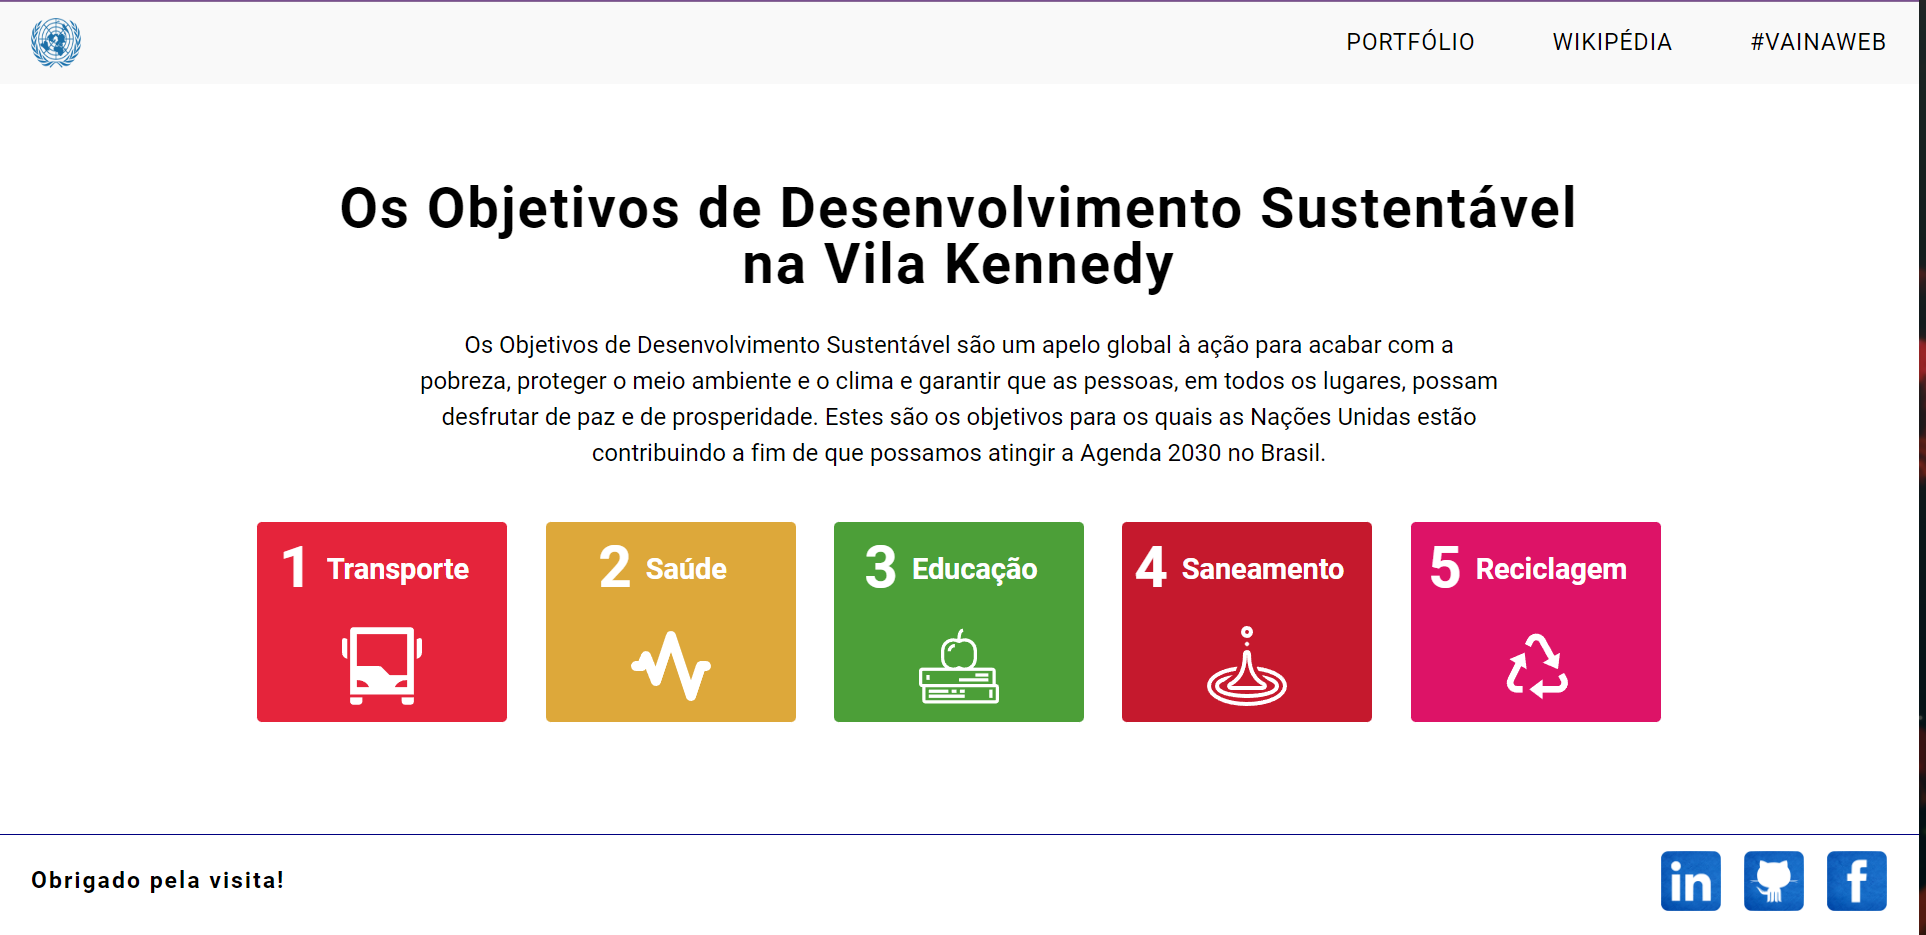
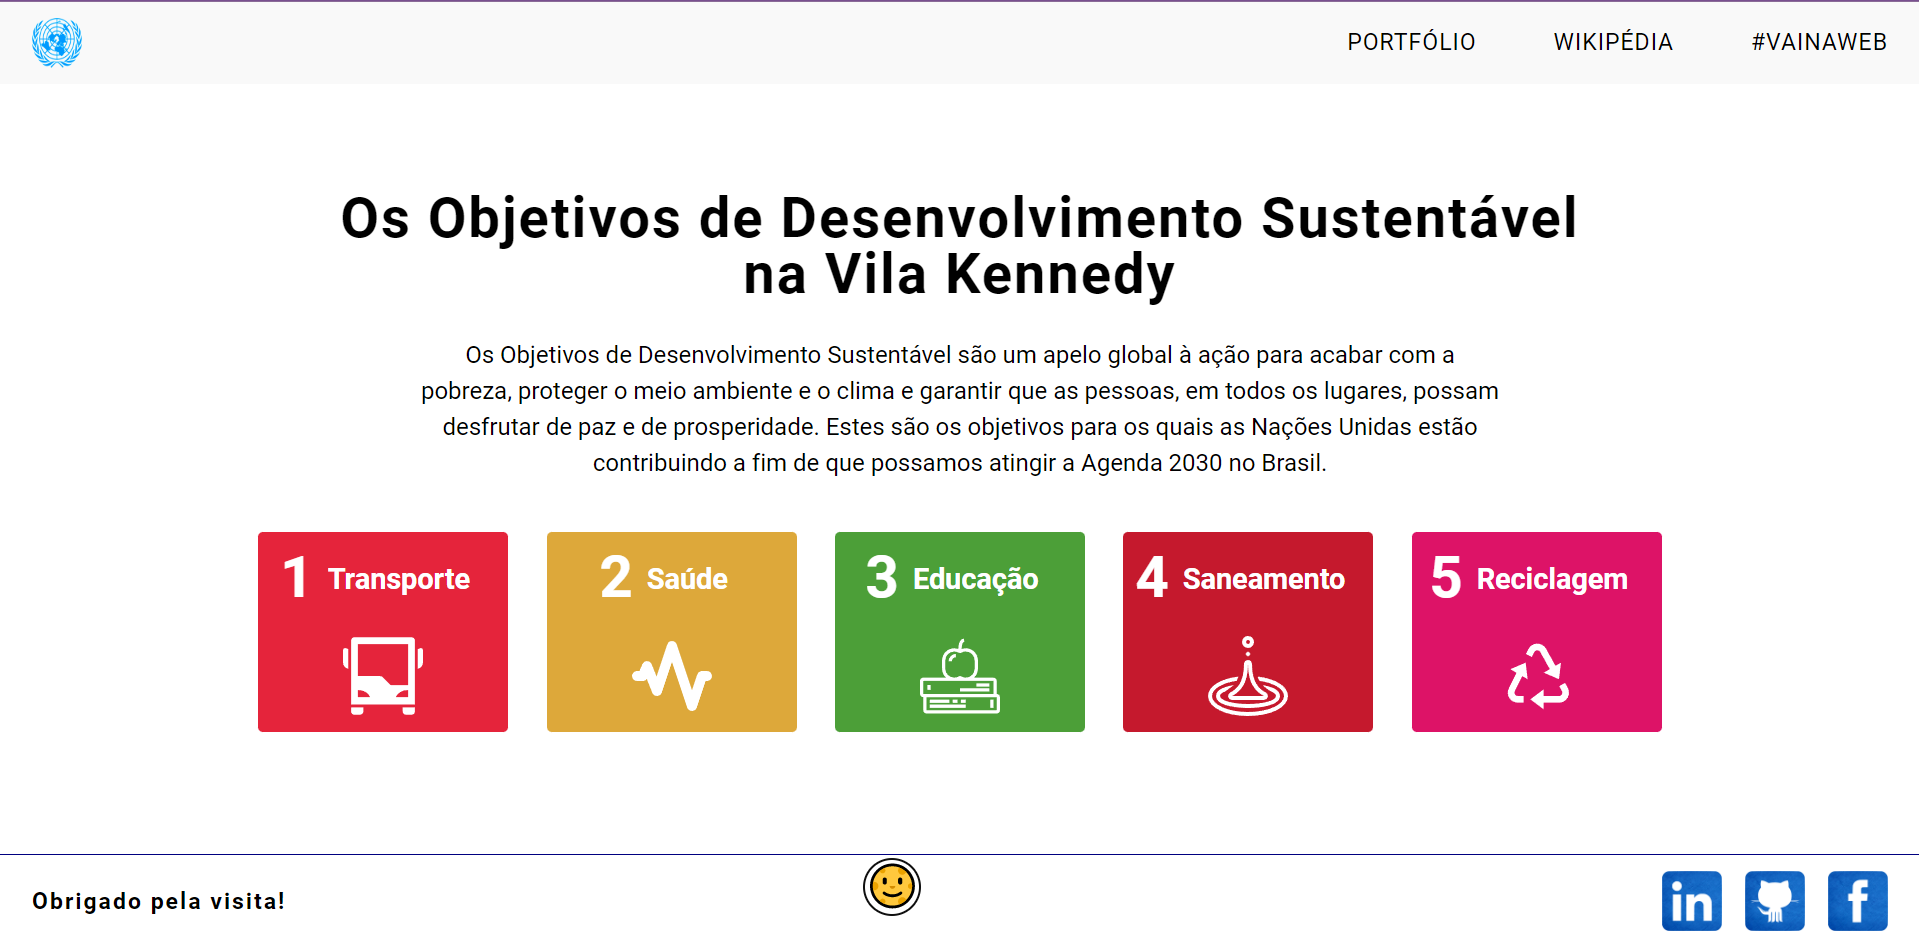
Dark & Light Themes

diff --git a/src/Theme/themeStyle.js b/src/Theme/themeStyle.js
@@ -1,0 +1,65 @@
+import styled from "styled-components"
+
+export const ToggleBtn = styled.button`
+    width: 3.5rem;
+    aspect-ratio: 1;
+    border-radius: 50px;
+    font-size: 2.5rem;
+    border: none;
+    background-color: transparent;
+    overflow: hidden;
+    position: fixed; 
+    z-index: 9999;
+    bottom: 1.5rem;
+    left: 45%;
+
+    @media screen and (max-width: 25em){
+        top: 0.9rem;
+        left: 0.9rem;
+    }
+
+    ::before,
+    ::after{
+        width: 45px;
+        aspect-ratio: 1;
+        display: block;
+        transition: transform 0.5s ease-in-out;
+        position: absolute;
+        top: 15%;
+        left: 2%;
+    }
+
+    ::before{
+        content: '🌞';
+        transform: ${(props) => props.theme.opSun};
+    }
+
+    ::after{
+        content: '🌝';
+        transform: ${(props) => props.theme.opMoon};
+    }
+`;
+
+export const lightTheme = {
+    clrLight: 'white',
+    clrDark: 'black',
+    accent: '#f9f9f9',
+    bgLight: 'white',
+    bgDark: 'black',
+    bgNavy: 'navy',
+    opSun: 'translateY(100px)',
+    overlay: 'rgb(0, 0, 0, 0.5)',
+    imgClr: 'contrast(100%) brightness(100%)',
+}
+
+export const darkTheme = {
+    clrLight: 'black',
+    clrDark: 'white',
+    accent: '#1c1e22',
+    bgLight: 'black',
+    bgDark: 'white',
+    bgNavy: 'cyan',
+    opMoon: 'translateY(-100px)',
+    overlay: 'rgb(255, 255, 255, 0.5)',
+    imgClr: 'contrast(0%) brightness(0%)'
+}

diff --git a/src/Components/Card/style.js b/src/Components/Card/style.js
@@ -36,6 +36,7 @@ export const Button = styled.button`
     img{
         width: 80px;
         aspect-ratio: 1;
+        filter: var(--img);
     }
 
     :nth-child(1){
@@ -64,11 +65,11 @@ export const Overlay = styled.div`
     z-index: 1000;
     transform: ${({open}) => (open ? 'scale(1000)' : 'scale(0)')};
     transition: transform 0.4s ease-in-out;
-    background-image: linear-gradient( rgb(0, 0, 0, 0), rgb(0, 0, 0, 0.5) );
+    background-image: linear-gradient( rgb(0, 0, 0, 0), var(--overlay));
 `;
 
 export const ModalBox = styled.dialog`
-    width: 45%;
+    width: 50%;
     min-height: 30vh;
     padding: 1rem 0.5rem;
     border-radius: 25px;
@@ -76,12 +77,12 @@ export const ModalBox = styled.dialog`
     flex-direction: column;
     align-items: center;
     row-gap: clamp(0.7rem, 1.2vw, 2rem);
-    background-color: var(--bg-light);
+    background-color: var(--bg-accent);
     position: fixed;
     transform: ${({ open }) => (open ? 'scale(1)' : 'scale(0)')};
     transition: transform 0.3s ease-in-out;
     top: 5%;
-    left: 25%;
+    left: 24%;
     z-index: 2000;
 
     img{
@@ -130,7 +131,7 @@ export const ModalBox = styled.dialog`
     @media screen and (max-width:48em){
         width: 95%;
         padding: 0.5rem;
-        top: 2%;
+        top: 1%;
         left: 2%;
     }
 `;

diff --git a/src/Components/Header/style.js b/src/Components/Header/style.js
@@ -13,6 +13,7 @@ export const Container = styled.section`
     img{
         width: 50px;
         aspect-ratio: 1;
+        filter: contrast(150%) brightness(150%);
     }
 
     @media screen and (max-width:38em){
@@ -28,9 +29,9 @@ export const Skip = styled.a`
     border-radius: 5px;
     font-size: clamp(1rem, 1vw, 1.5rem);
     font-family: var(--ff-one);
-    font-weight: var(--fw-400);
+    font-weight: var(--fw-700);
     color: var(--clr-light);
-    background-color: navy;
+    background-color: var(--bg-navy);
     position: absolute;
     left: 2rem;
     bottom: -2rem;
@@ -40,9 +41,6 @@ export const Skip = styled.a`
     outline: none;
 
     :focus-visible{
-        font-weight: var(--fw-700);
-        background-color: blueviolet;
-        color: var(--clr-light);
         transform: translateY(0);
     }
 `;
@@ -78,7 +76,7 @@ export const Nav = styled.nav`
         display: block;
         position: absolute;
         left: 15%;
-        bottom: -.3em;
+        bottom: -.35em;
         transform-origin: center;
         transition: transform 0.2s ease-in-out;
         transform: scaleX(0);
@@ -88,7 +86,7 @@ export const Nav = styled.nav`
         transform: scaleX(1);
     }
 
-    li:where(:hover, :focus){
+    a:where(:hover, :focus){
         color: red;
     }
 

diff --git a/src/Theme/theme.js b/src/Theme/theme.js
@@ -1,0 +1,43 @@
+import React, {useState, useEffect} from 'react';
+import { ThemeProvider } from 'styled-components';
+import { darkTheme, lightTheme } from './themeStyle';
+import * as S from './themeStyle'
+
+export default function DarkTheme({children}) {
+
+    const [theme, setTheme] = useState('light')
+    const [checkMount, setCheckMount] = useState(false)
+
+    const setMode = mode => {
+      window.localStorage.setItem('theme', mode)
+      setTheme(mode)
+    };
+
+    const toggleTheme = () => {
+      theme === 'light' ? setMode('dark') : setMode('light');
+    }
+
+    useEffect(() => {
+      const localTheme = window.localStorage.getItem('theme');
+      if (localTheme) {
+        setTheme(localTheme);
+      } else {
+        setMode('light');
+      }
+
+      setCheckMount(true)
+    }, []);
+
+    if(!checkMount){
+      return <div/> 
+    }
+
+    return (
+        <>
+            <ThemeProvider theme={theme === 'light' ? lightTheme : darkTheme}>
+            <S.ToggleBtn aria-label='Change Theme' onClick={() => {toggleTheme()}}></S.ToggleBtn>   
+                {children}
+            </ThemeProvider>    
+        </>
+    );
+}

diff --git a/src/Global/GlobalStyle.js b/src/Global/GlobalStyle.js
@@ -19,14 +19,27 @@ export const GlobalStyle = createGlobalStyle`
         --fw-700: 700;
         --fw-400: 400;
         /*  */
-        --clr-light: #FFFFFF;
-        --clr-dark: #FFFFF;
+        --clr-light: ${(props) => props.theme.clrLight};
+        --clr-dark: ${(props) => props.theme.clrDark};
         /*  */
-        --bg-light: #ffffff;
-        --bg-accent: #f9f9f9;
-        --bg-dark: #000000;
-        --bg-navy: navy;
+        --bg-light: ${(props) => props.theme.bgLight};
+        --bg-accent: ${(props) => props.theme.accent};
+        --bg-dark: ${(props) => props.theme.bgDark};
+        --bg-navy: ${(props) => props.theme.bgNavy};
         /*  */
+        --opSun: ${(props) => props.theme.opSun};
+        --opMoon: ${(props) => props.theme.opMoon};
+        /*  */
+        --overlay: ${(props) => props.theme.overlay};
+        --img: ${(props) => props.theme.imgClr};
+    }
+
+    * > * {
+        transition: background-color 0.3s linear;
+    }
+
+    * + * {
+        transition: color 0.3s linear;
     }
 
     body {

diff --git a/src/App.js b/src/App.js
@@ -1,16 +1,20 @@
 import React from 'react';
+import DarkTheme from './Theme/theme';
 import {GlobalStyle} from './Global/GlobalStyle'
 import Header from './Components/Header'
 import Home from './Page/Home'
 import Footer from './Components/Footer'
 
 export default function App() {
+
   return (
     <>
-      <GlobalStyle />
-      <Header />
-      <Home />
-      <Footer />
+      <DarkTheme>
+          <GlobalStyle />
+          <Header />
+          <Home />
+          <Footer />
+      </DarkTheme>
     </>
   );
 }

diff --git a/src/Components/Footer/style.js b/src/Components/Footer/style.js
@@ -4,7 +4,7 @@ export const Container = styled.section`
     max-width: 1920px;
     margin: 0 auto;
     padding: 1rem 2rem 0.5rem;
-    border-top: 1px solid navy;
+    border-top: 1px solid var(--bg-navy);
     display: flex;
     justify-content: space-between;
     align-items: center;

diff --git a/src/Page/Home/style.js b/src/Page/Home/style.js
@@ -2,7 +2,7 @@ import styled from "styled-components";
 
 export const Container = styled.section`
     max-width: 1920px;
-    min-height: 80vh;
+    min-height: 82.2vh;
     margin: 0 auto;
     padding: 1rem 0.5rem;
     display: flex;
